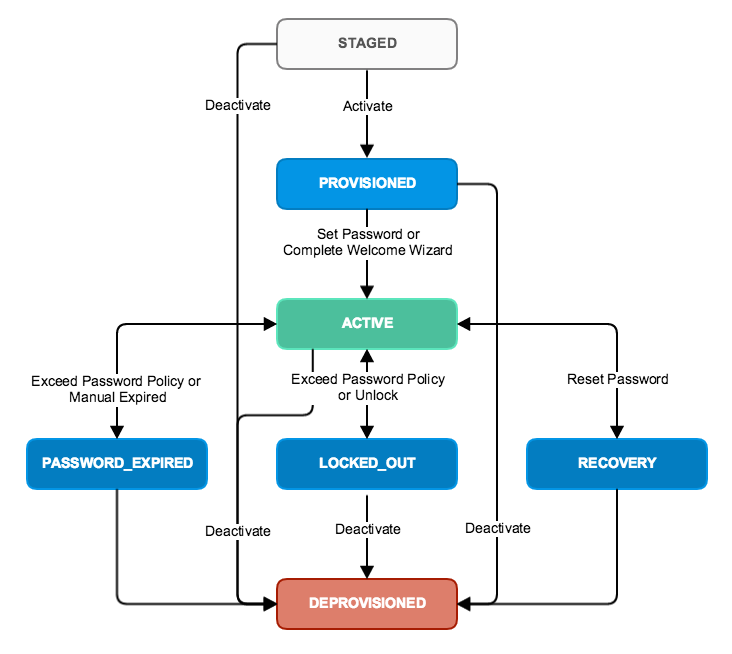
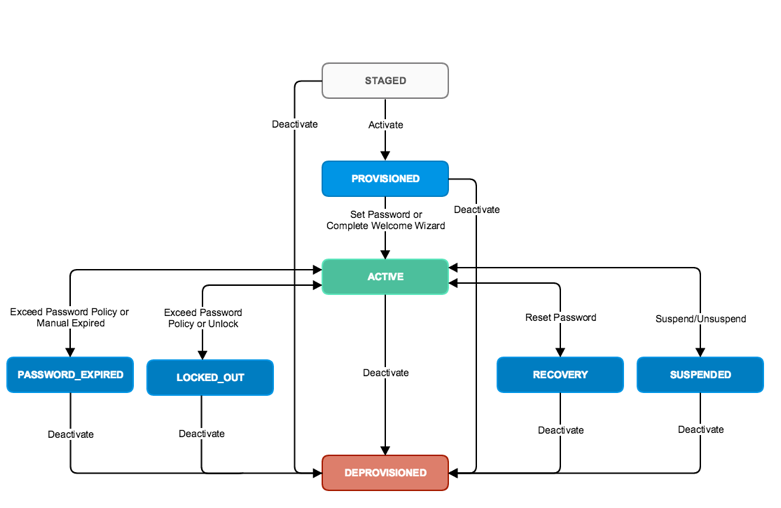
User status edits and new graphic

Changed region(s): [[0.0, 0.0295, 0.9918, 0.9744], [0.0601, 0.8268, 0.1202, 0.8858], [0.6011, 0.0295, 0.6311, 0.0591]]

diff --git a/_source/docs/api/resources/users.md b/_source/docs/api/resources/users.md
@@ -2032,7 +2032,7 @@ Content-Type: application/json
 ### Suspend User
 {:.api .api-operation}
 
-<span class="api-uri-template api-uri-post"><span class="api-label">POST</span> /users/*:id*/lifecycle/deactivate</span>
+<span class="api-uri-template api-uri-post"><span class="api-label">POST</span> /users/*:id*/lifecycle/suspend</span>
 
 Suspends a user.  This operation can only be performed on users with an `ACTIVE` status.  The user will have a status of `SUSPENDED` when the process is complete. 
 
@@ -2049,7 +2049,7 @@ id        | `id` of user | URL        | String   | TRUE     |
 ##### Response Parameters
 {:.api .api-response .api-response-params}
 
-Returns an empty object.
+Returns an empty object. Passing an invalid `id` returns a `400 Bad Request` status code with error code `E0000001`.
 
 ##### Request Example
 {:.api .api-request .api-request-example}
@@ -2073,7 +2073,7 @@ Content-Type: application/json
 ### Unsuspend User
 {:.api .api-operation}
 
-<span class="api-uri-template api-uri-post"><span class="api-label">POST</span> /users/*:id*/lifecycle/deactivate</span>
+<span class="api-uri-template api-uri-post"><span class="api-label">POST</span> /users/*:id*/lifecycle/unsuspend</span>
 
 Unsuspends users and returns then to the `ACTIVE` state.  This operation can only be performed on users that have a `SUSPENDED` status.  
 
@@ -2088,7 +2088,7 @@ id        | `id` of user | URL        | String   | TRUE     |
 ##### Response Parameters
 {:.api .api-response .api-response-params}
 
-Returns an empty object.
+Returns an empty object. Returns an empty object. Passing an invalid `id` returns a `400 Bad Request` status code with error code `E0000001`.
 
 ##### Request Example
 {:.api .api-request .api-request-example}
